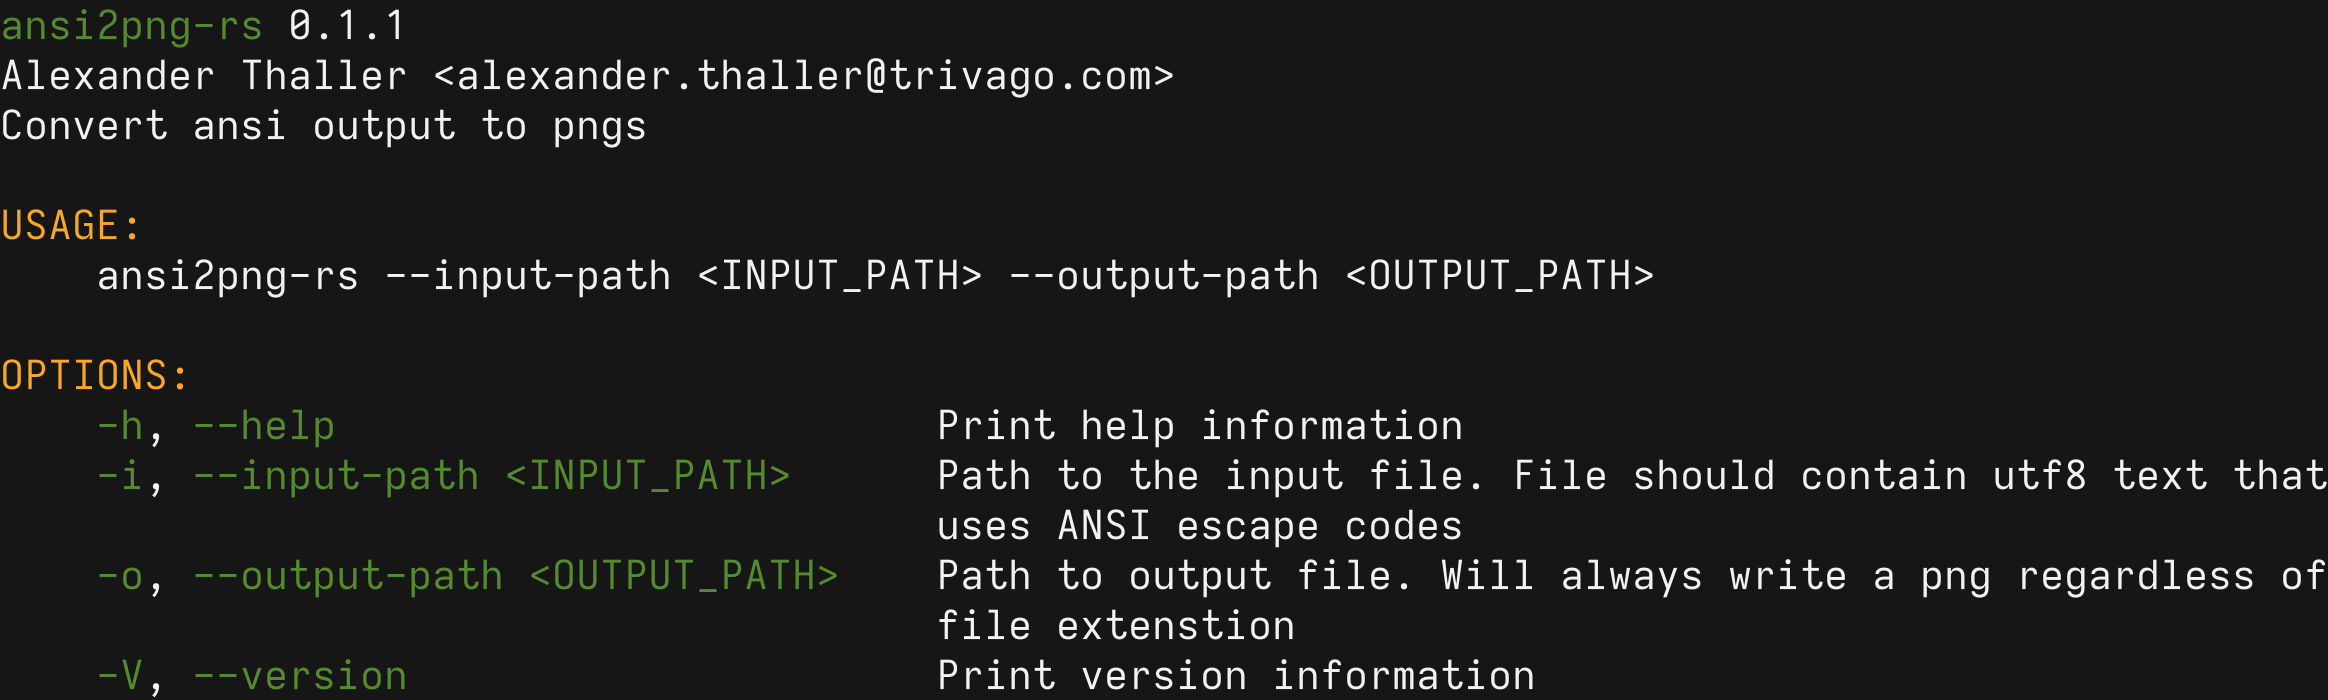
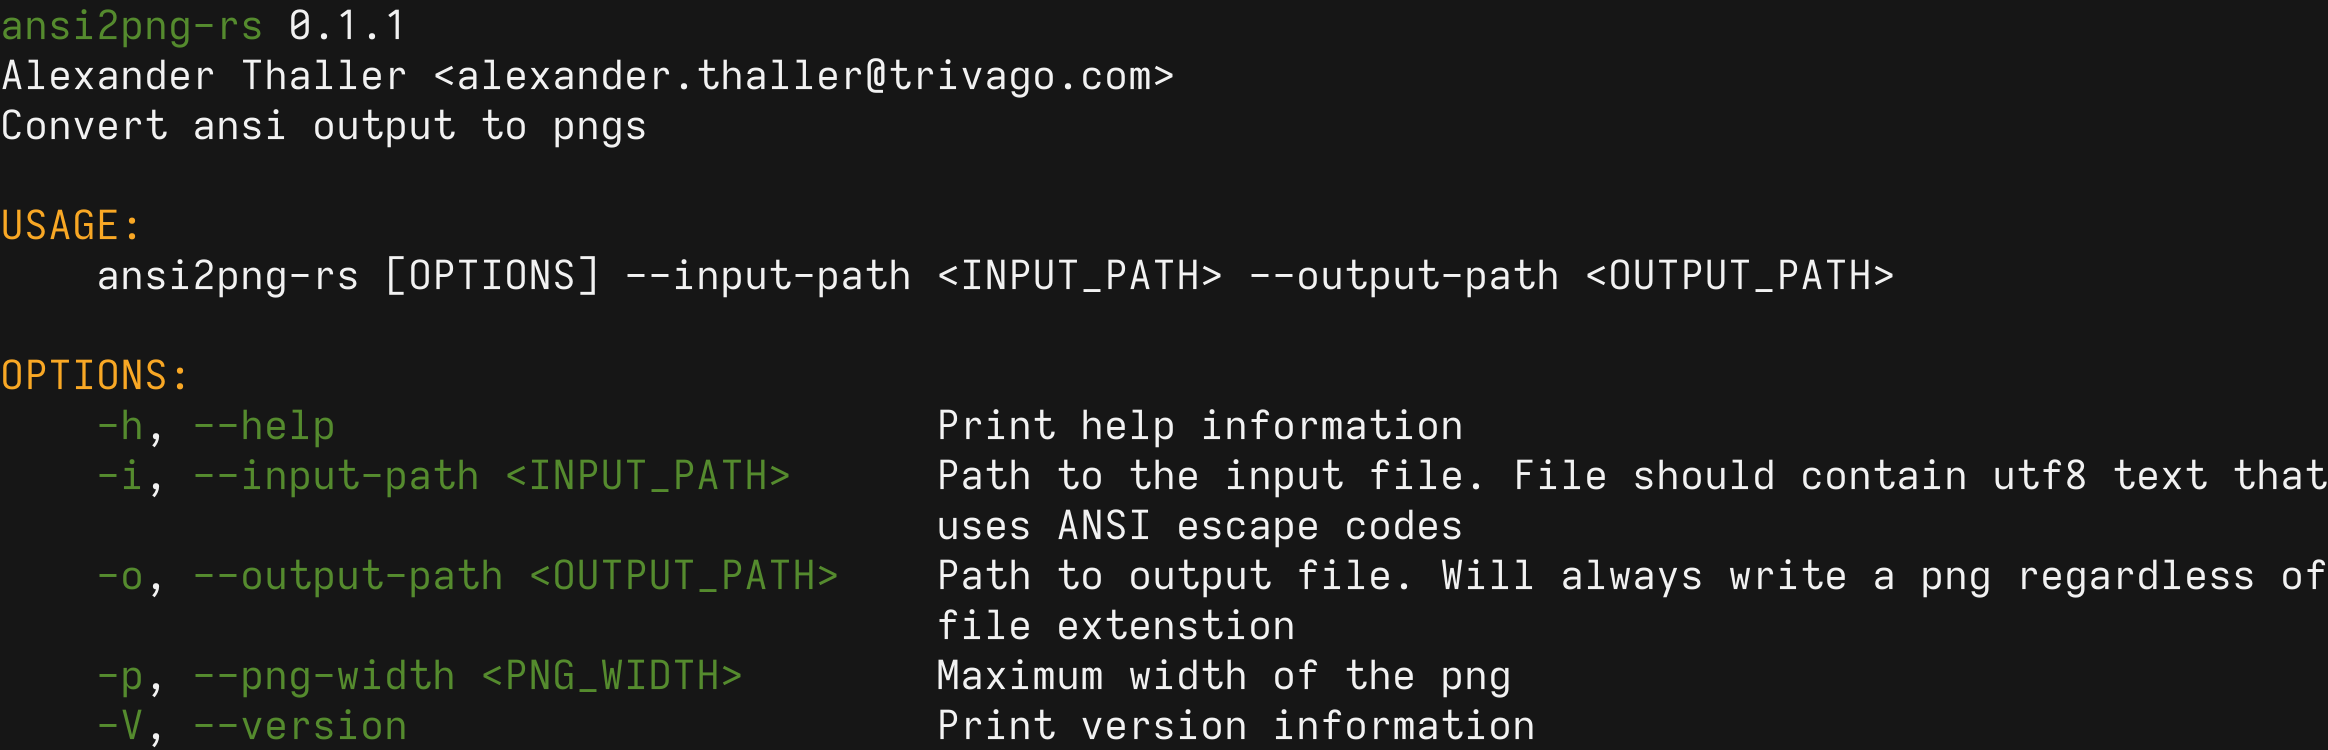
Add support for png width limiting

diff --git a/src/printer.rs b/src/printer.rs
@@ -27,12 +27,14 @@ pub(super) struct Settings<'a> {
     pub(super) font_height: f32,
     pub(super) scale: Scale,
     pub(super) pallete: Palette,
+    pub(super) png_width: Option<u32>,
 }
 
 #[derive(Debug, Default)]
 struct SettingsInternal {
     glyph_advance_width: f32,
     new_line_distance: u32,
+    png_width: Option<u32>,
 }
 
 #[derive(Debug)]
@@ -80,9 +82,12 @@ pub(super) fn new(settings: Settings) -> Printer {
 
     let new_line_distance = settings.font_height as u32;
 
+    let png_width = settings.png_width;
+
     let settings_internal = SettingsInternal {
         glyph_advance_width,
         new_line_distance,
+        png_width,
     };
 
     Printer {
@@ -121,6 +126,13 @@ impl<'a> Perform for Printer<'a> {
         );
 
         self.state.current_x += self.settings_internal.glyph_advance_width as u32;
+
+        if let Some(png_width) = self.settings_internal.png_width {
+            if self.state.current_x > png_width {
+                self.state.current_x = 0;
+                self.state.current_y += self.settings_internal.new_line_distance;
+            }
+        }
     }
 
     fn execute(&mut self, byte: u8) {

diff --git a/src/main.rs b/src/main.rs
@@ -52,6 +52,7 @@ fn main() {
     };
 
     let pallete = Palette::Custom;
+    let png_width = opt.png_width;
 
     let mut statemachine = Parser::new();
     let mut performer = printer::new(Settings {
@@ -62,6 +63,7 @@ fn main() {
         font_height,
         scale,
         pallete,
+        png_width,
     });
 
     let mut buf = [0; 2048];

diff --git a/src/opt.rs b/src/opt.rs
@@ -14,4 +14,8 @@ pub(super) struct Opt {
     /// extenstion.
     #[structopt(short, long)]
     pub(super) output_path: PathBuf,
+
+    /// Maximum width of the png
+    #[structopt(short, long)]
+    pub(super) png_width: Option<u32>,
 }
